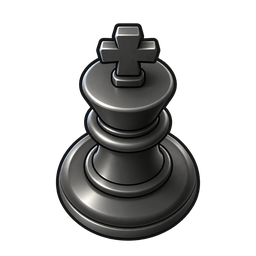
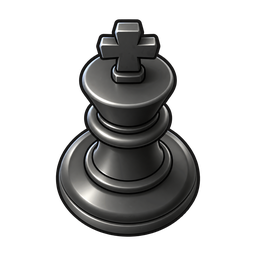
polish(board): center each piece's art on its square
The runtime piece images sat on a shared baseline 94% down the canvas, so
pawns rode about 9% of a square low. Re-exported from the 1024px masters
with each piece's visible art centered vertically; masters unchanged.

Changed region(s): [[0.2188, 0.0625, 0.7812, 0.9688]]

diff --git a/design/pieces/BRIEF.md b/design/pieces/BRIEF.md
@@ -112,7 +112,10 @@ Fixes, all at 44px:
   to 44px (about 2% of the canvas width).
 - **Placement:** every piece horizontally centered, with the bottom of its
   base ellipse on the same line, about 94% down the canvas. Height fill as in
-  round 2 (tall pieces about 85%, pawn at least 70%).
+  round 2 (tall pieces about 85%, pawn at least 70%). The masters keep this
+  baseline; the runtime `offbook/*.webp` files are re-exported with each
+  piece's visible art centered vertically on its square instead (Mitch,
+  2026-10-23: "it bugs me that the pieces don't get centered on the squares").
 
 Deliverables, in `design/pieces/offbook/`:
 
